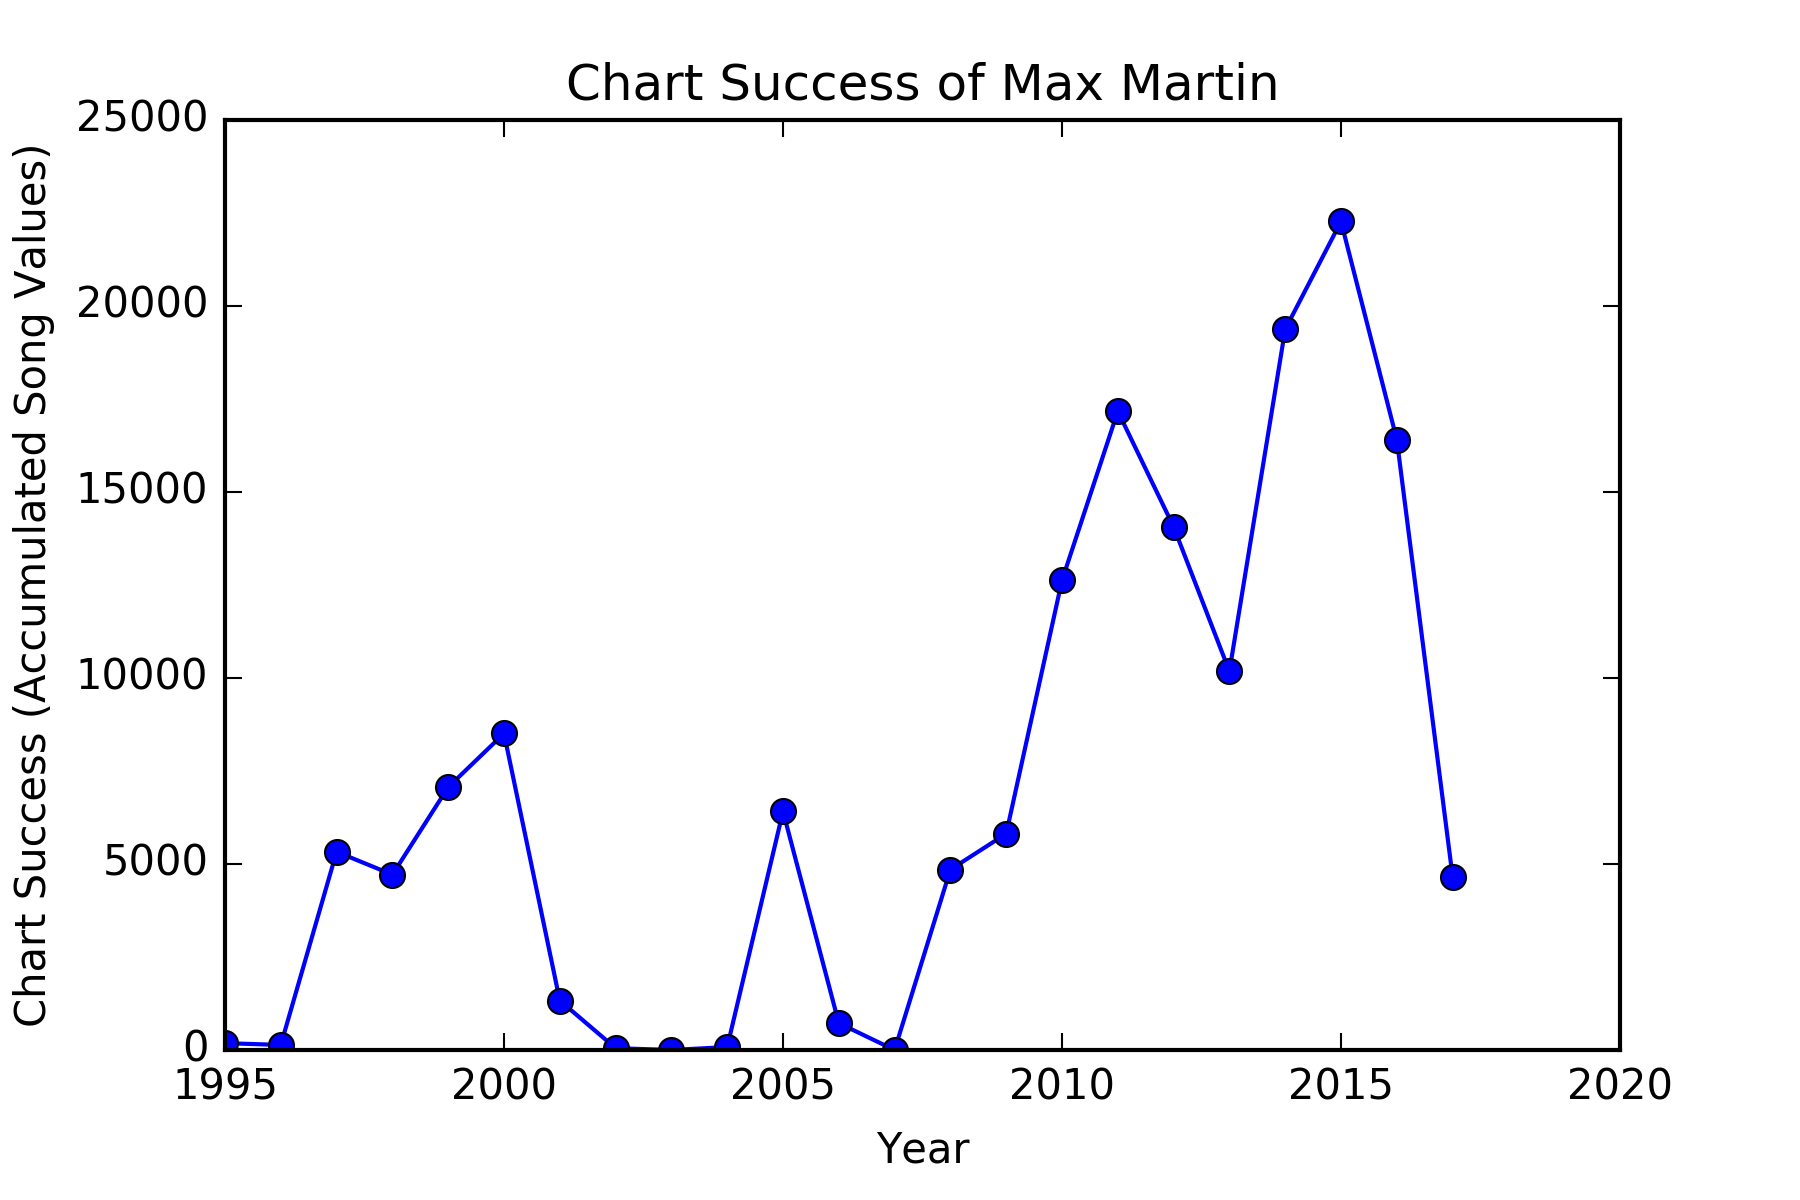
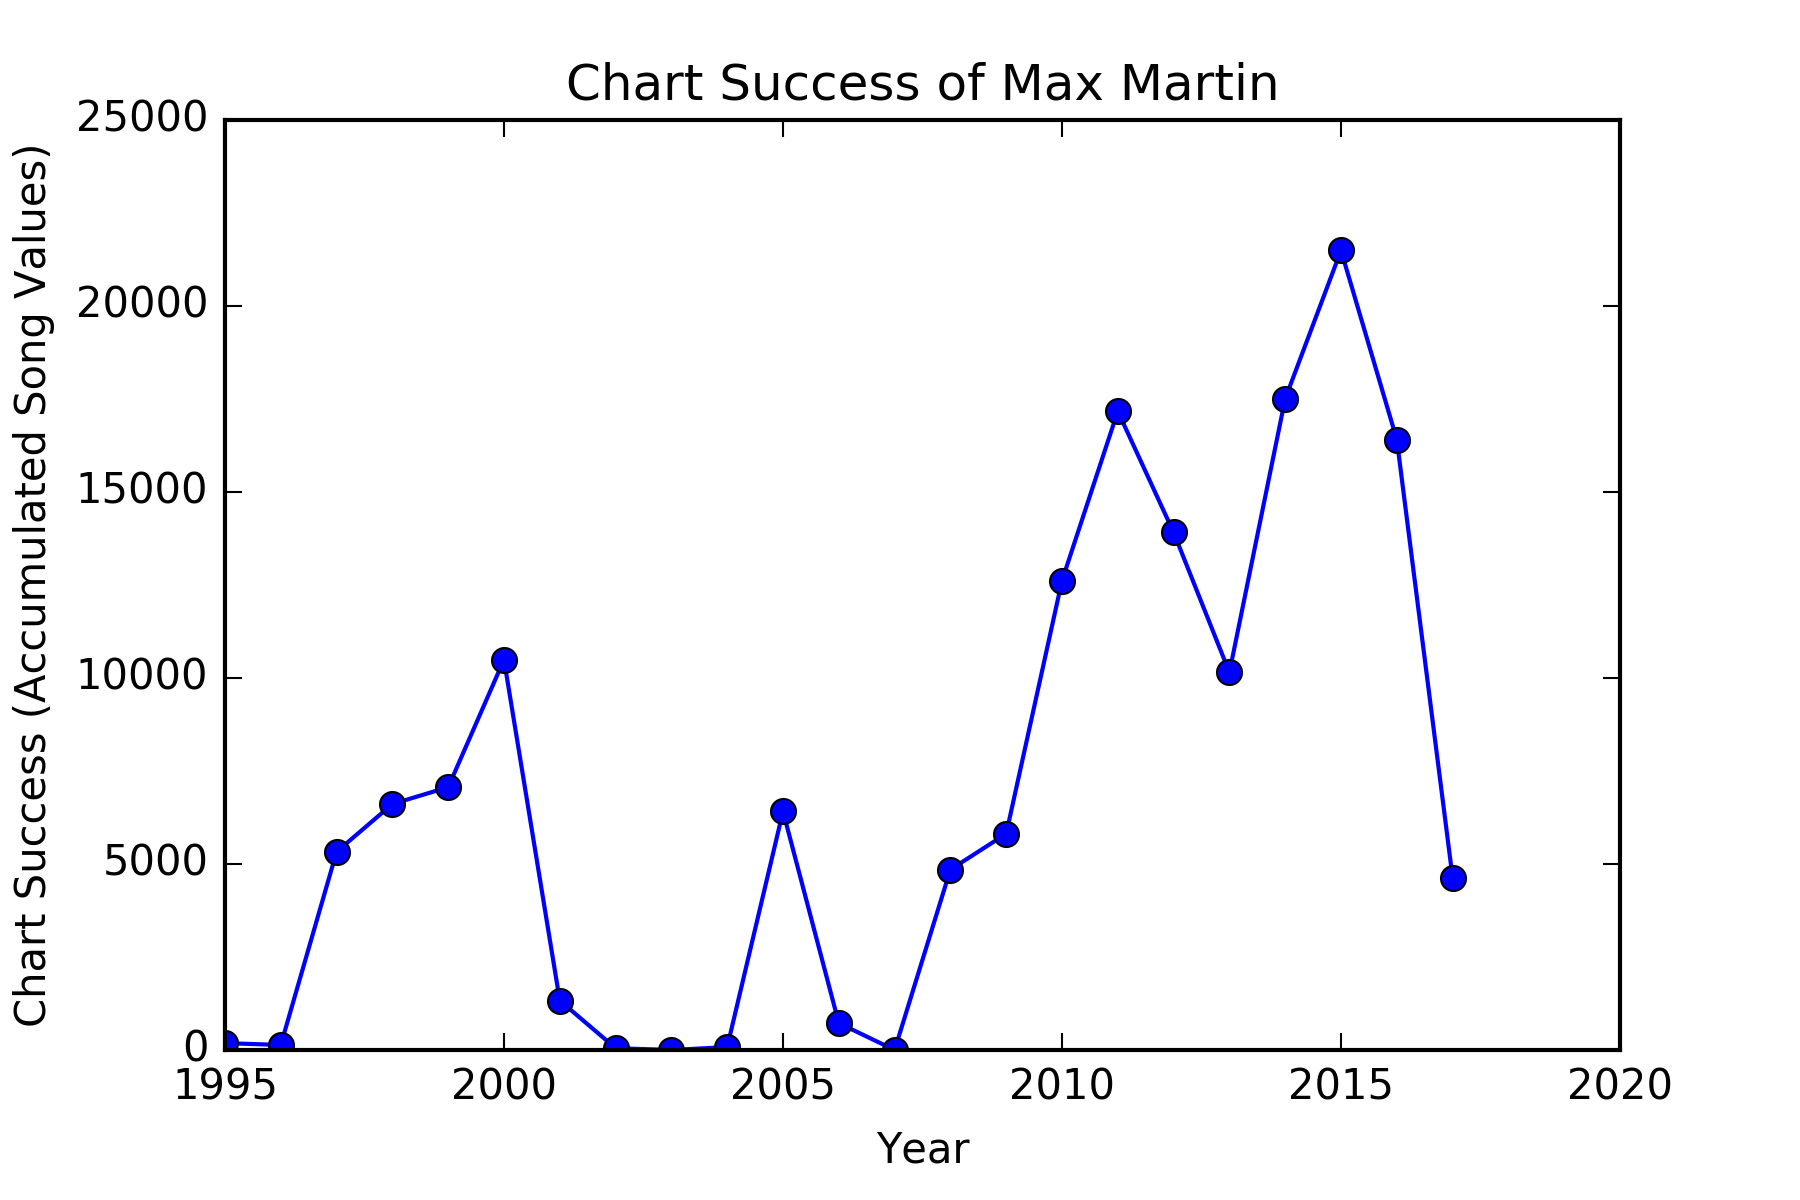
Improved comparison without fuzzy

diff --git a/chart_success.py b/chart_success.py
@@ -4,24 +4,32 @@
 @author: 3ngthrust
 """
 from collections import OrderedDict
-from fuzzywuzzy import fuzz
+from fuzzywuzzy import utils
 import matplotlib.pyplot as plt
 import billboard
 import time
 import pickle
 
+def normalize_str(s):
+    # Remove non alphanumeric letters, lowercase everything
+    s = utils.full_process(s)
+    # Remove all whitespaces    
+    s = "".join(s.split())
+    return s
 
 def song_value(songtitle, artist, chart):                                         
 # Run through one billboard chart objekt and return the "value" of the song 
 # with the specified Title and Artist in this chart.
-# The returned value for a no. 1 song is 100, the value of a no. 2 song is 99,
-# etc., the value of a no. 100 song is 1. If the song is not on the chart 0 is
-# returend.
-# Example: song_value('Song Title', 'Artistname', chart)
+# sontitle and artist should be normalized!
+# Example: song_value('songtitle', 'artistname', chart)
     
-    for chart_pos, song in enumerate(chart):                              
-        if (fuzz.partial_ratio(str.lower(songtitle), str.lower(song.title)) >= 90) and (fuzz.partial_ratio(artist, song.artist) >= 90):
-            return 100-chart_pos
+    for song_tupel in chart:   
+        if len(songtitle) >= 4:
+            if (songtitle in song_tupel[1]) and (artist in song_tupel[2]):  
+                return song_tupel[0]  
+        else:
+            if (songtitle == song_tupel[1]) and (artist in song_tupel[2]):  
+                return song_tupel[0] 
         
     return 0
    
@@ -65,7 +73,21 @@ def create_chart_database(chart_name, min_year, database_filename):
     # Save database
     pickle.dump(chart_database , open(database_filename+".pkl", "wb"))
     
+def prepare_chart_database(chart_database):
+# Precalculate the value of every entry in each chart. 
+# The returned value for a no. 1 song is 100, the value of a no. 2 song is 99,
+# etc., the value of a no. 100 song is 1. If the song is not on the chart 0 is
+# returend.
+# Normalize the sontitle and artist.
+# Save every chart entry as a list of tuples: (value, norm_title, norm_artist)
+# The position is still theire with its index.
+    prepared_chart_database = OrderedDict()
     
+    for chart_date, chart in chart_database.items():
+        prepared_chart_database[chart_date] = [(100-i, normalize_str(song.title), normalize_str(song.artist)) for i, song in enumerate(chart)]
+
+    return  prepared_chart_database   
+
 def plot_data(max_value, min_year, max_year, title, data):
 # Plot the data calculated with the function 'calculate success'.
 # Example: plot_data(25000, 1995, 2017, 'Chart Success of Max Martin', data)
@@ -99,14 +121,18 @@ def calculate_success(database_filename, songlist_filename, artistlist_filename)
 # Example: calculate_success('database_filename,pkl', 'songlist_filename', 'artistlist_filename')
     
     # Import chart_database
-    chart_database = pickle.load(open(database_filename, "rb"))  
+    chart_database = pickle.load(open(database_filename, "rb")) 
+    # Rearrange items and normalise song titles and artist names.
+    chart_database = prepare_chart_database(chart_database)
     
     # Import songlist and artistlist
-    songlist = open(songlist_filename).read().split('\n')
-    artistlist = open(artistlist_filename).read().split('\n')
+    songlist_ori = open(songlist_filename).read().split('\n')
+    artistlist_ori = open(artistlist_filename).read().split('\n')
+    # Normalize songlist and artistlist
+    songlist = [normalize_str(song) for song in songlist_ori]
+    artistlist = [normalize_str(artist) for artist in artistlist_ori]
                   
     value_per_year = dict()
-    
     for chart_date, chart in chart_database.items():
         
         print(chart_date + ":" + "\n")
@@ -118,7 +144,7 @@ def calculate_success(database_filename, songlist_filename, artistlist_filename)
         
             if value:
                 add_value_to_year(year, value, value_per_year)
-                print('"' + song + '"' + ' by ' + artistlist[i] + ' ' + str(value) + "\n")
+                print('"' + songlist_ori[i] + '"' + ' by ' + artistlist_ori[i] + ' ' + str(value) + "\n")
                 
     print(value_per_year)
     return value_per_year
